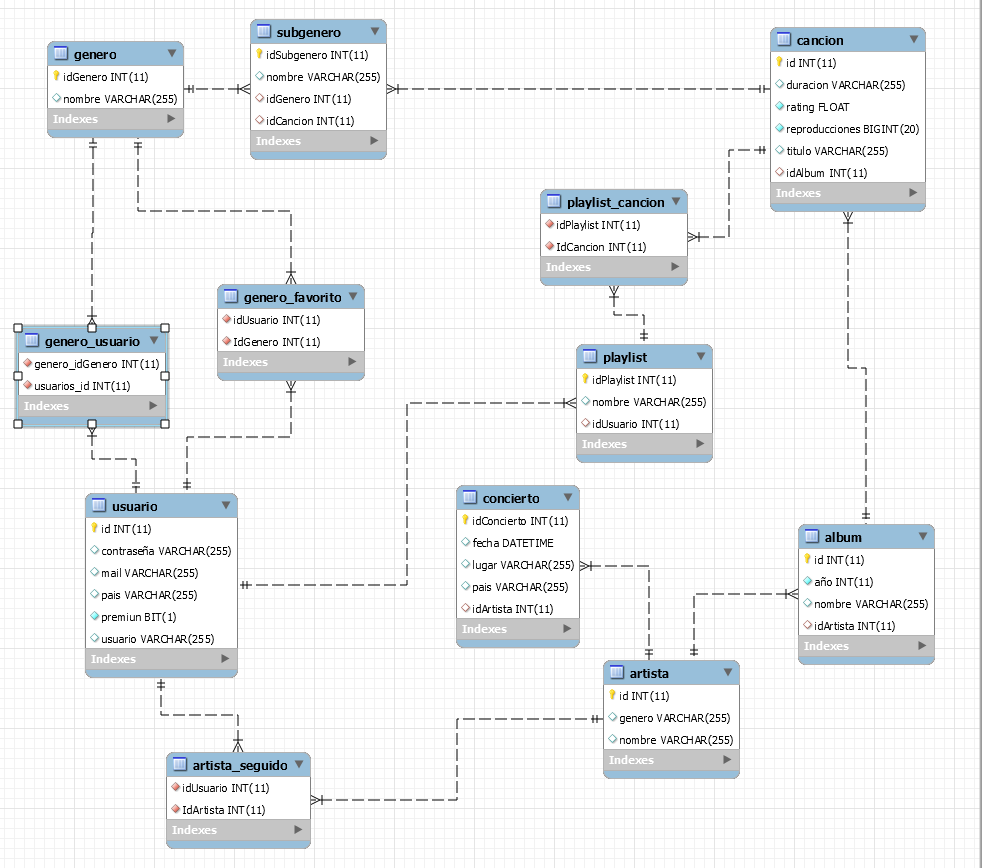
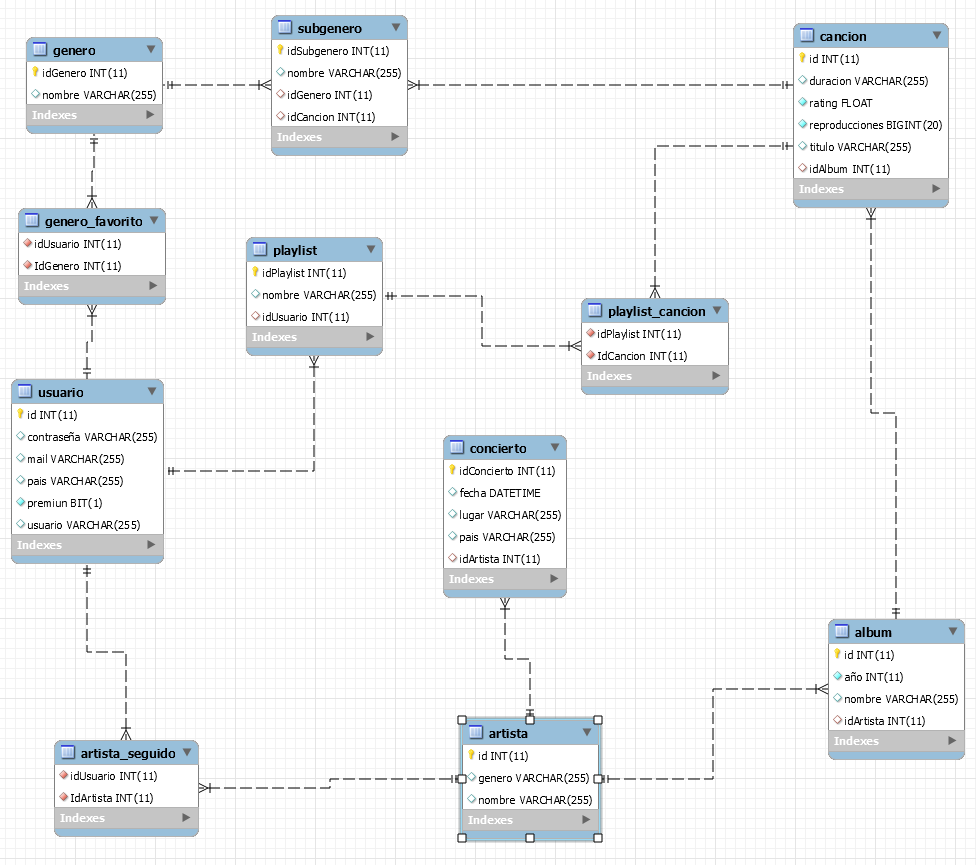
Creacion de todas las entidades y sus mapeos V1.1

diff --git a/Modulo/src/main/java/ar/com/magm/ti/model/Genero.java b/Modulo/src/main/java/ar/com/magm/ti/model/Genero.java
@@ -34,7 +34,7 @@ public class Genero implements Serializable {
 	@JoinColumn(name="idGenero")
 	private List<Subgenero> subgeneros;
 	
-	@ManyToMany
+	@ManyToMany(cascade = {CascadeType.ALL},mappedBy="generosFavoritos")
 	private List<Usuario> usuarios;
 	
 
